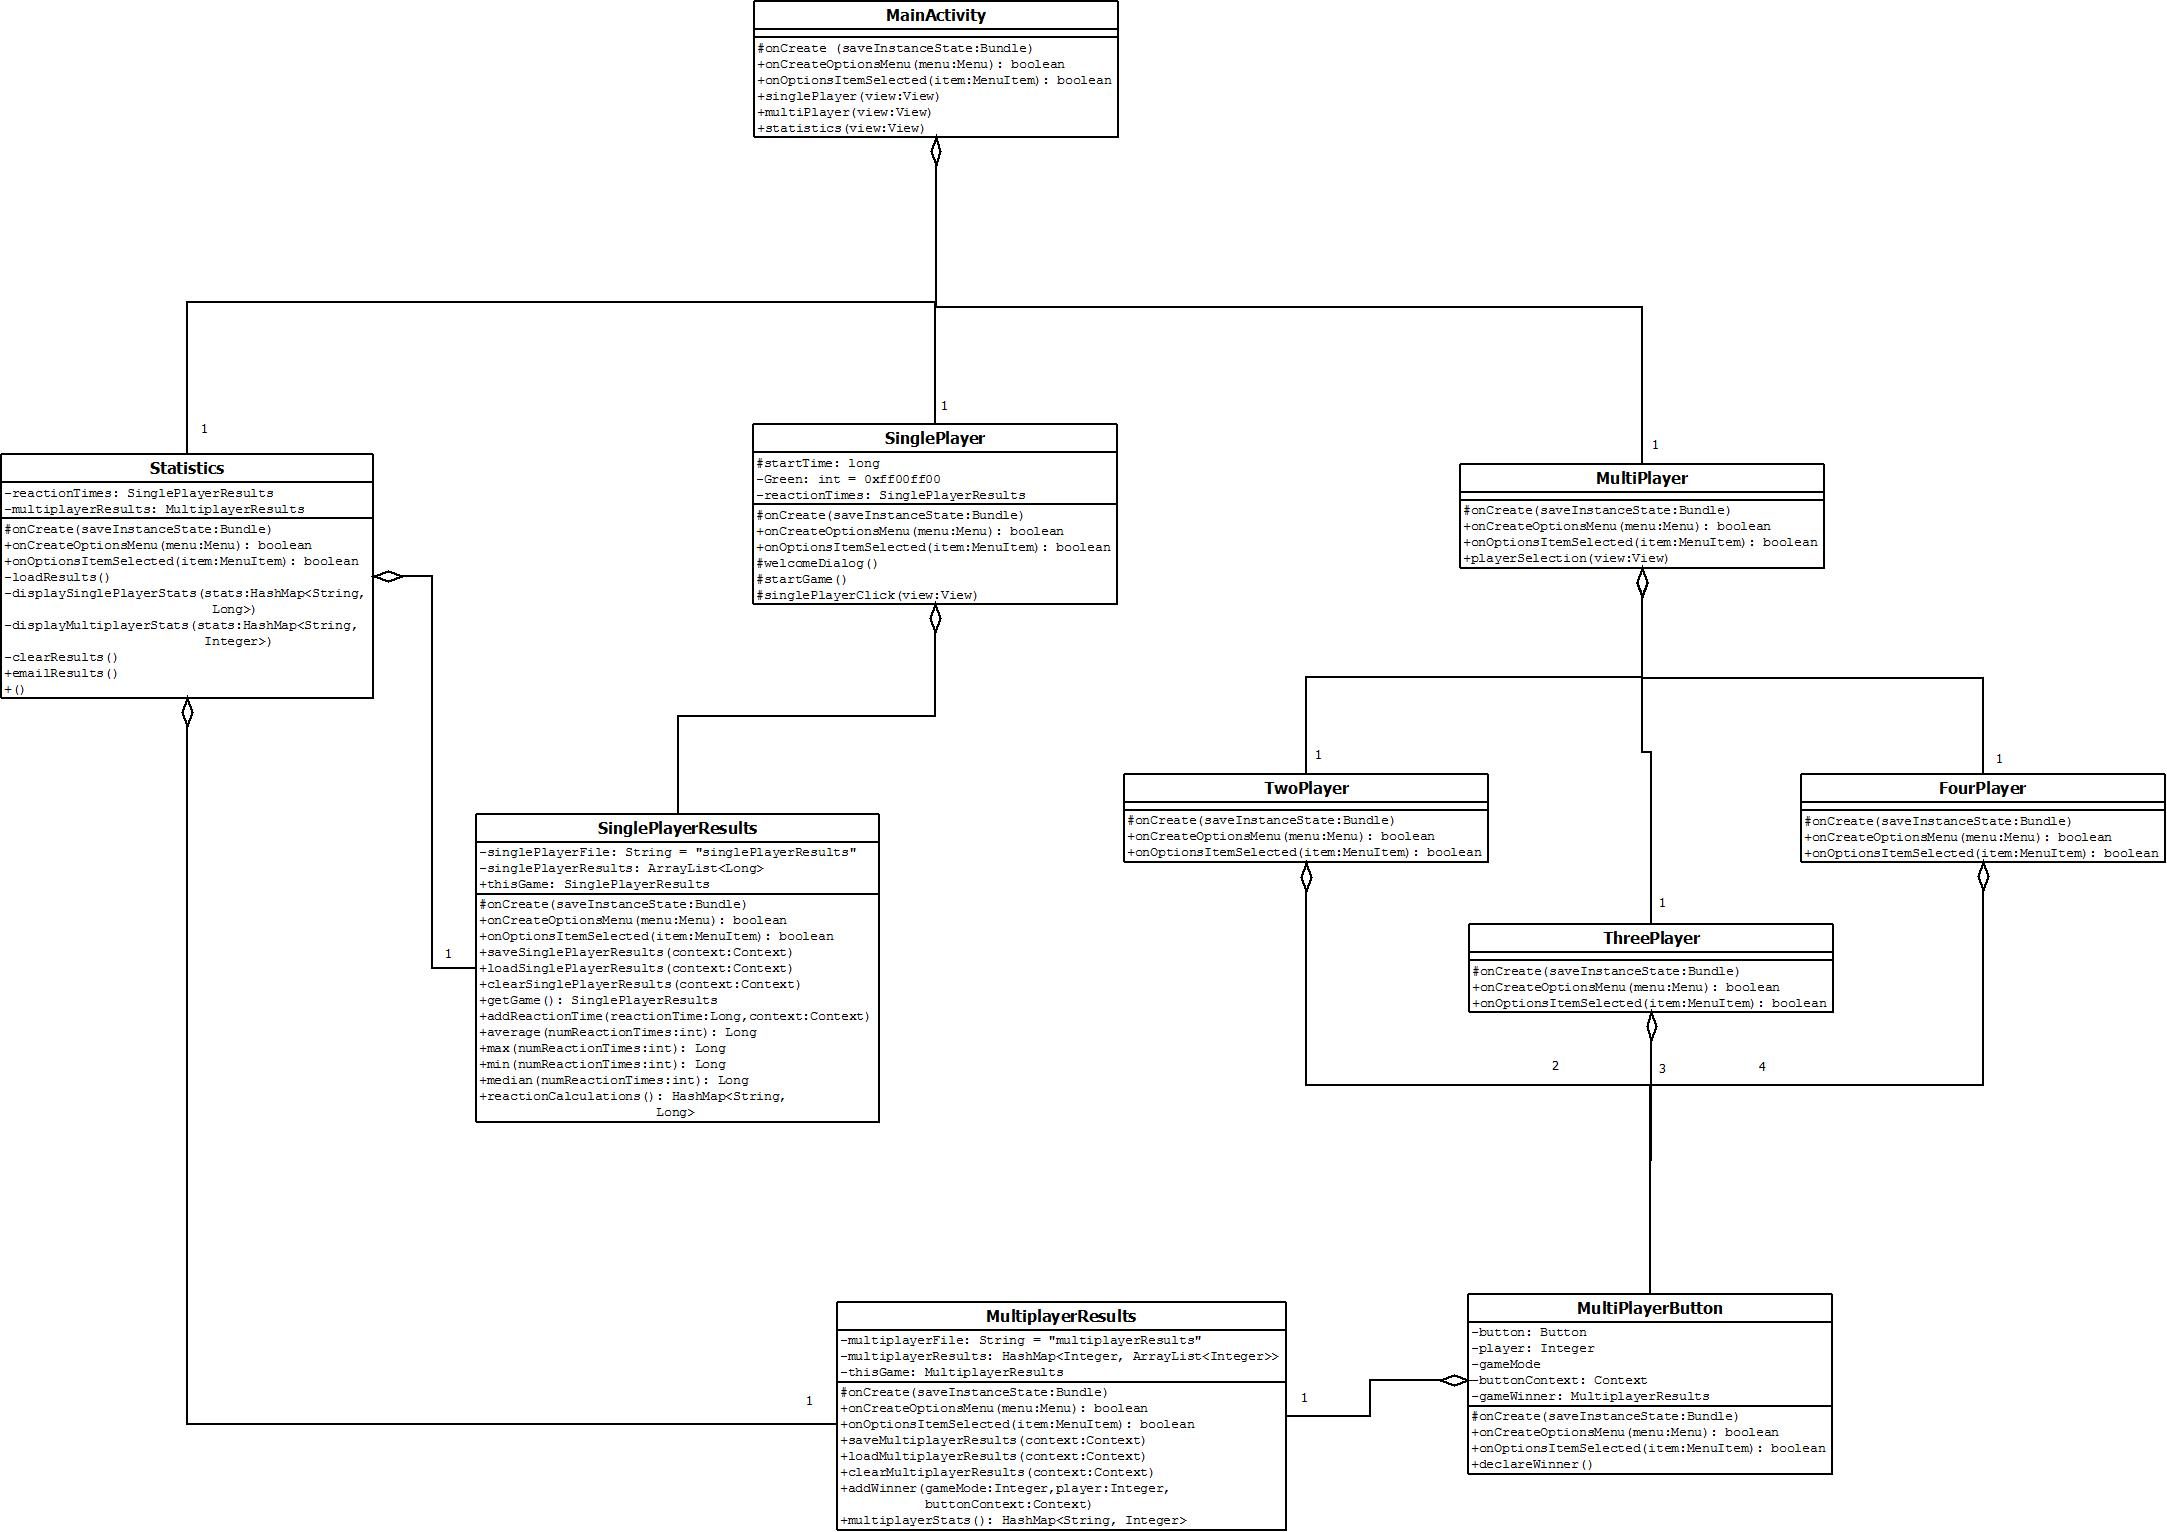
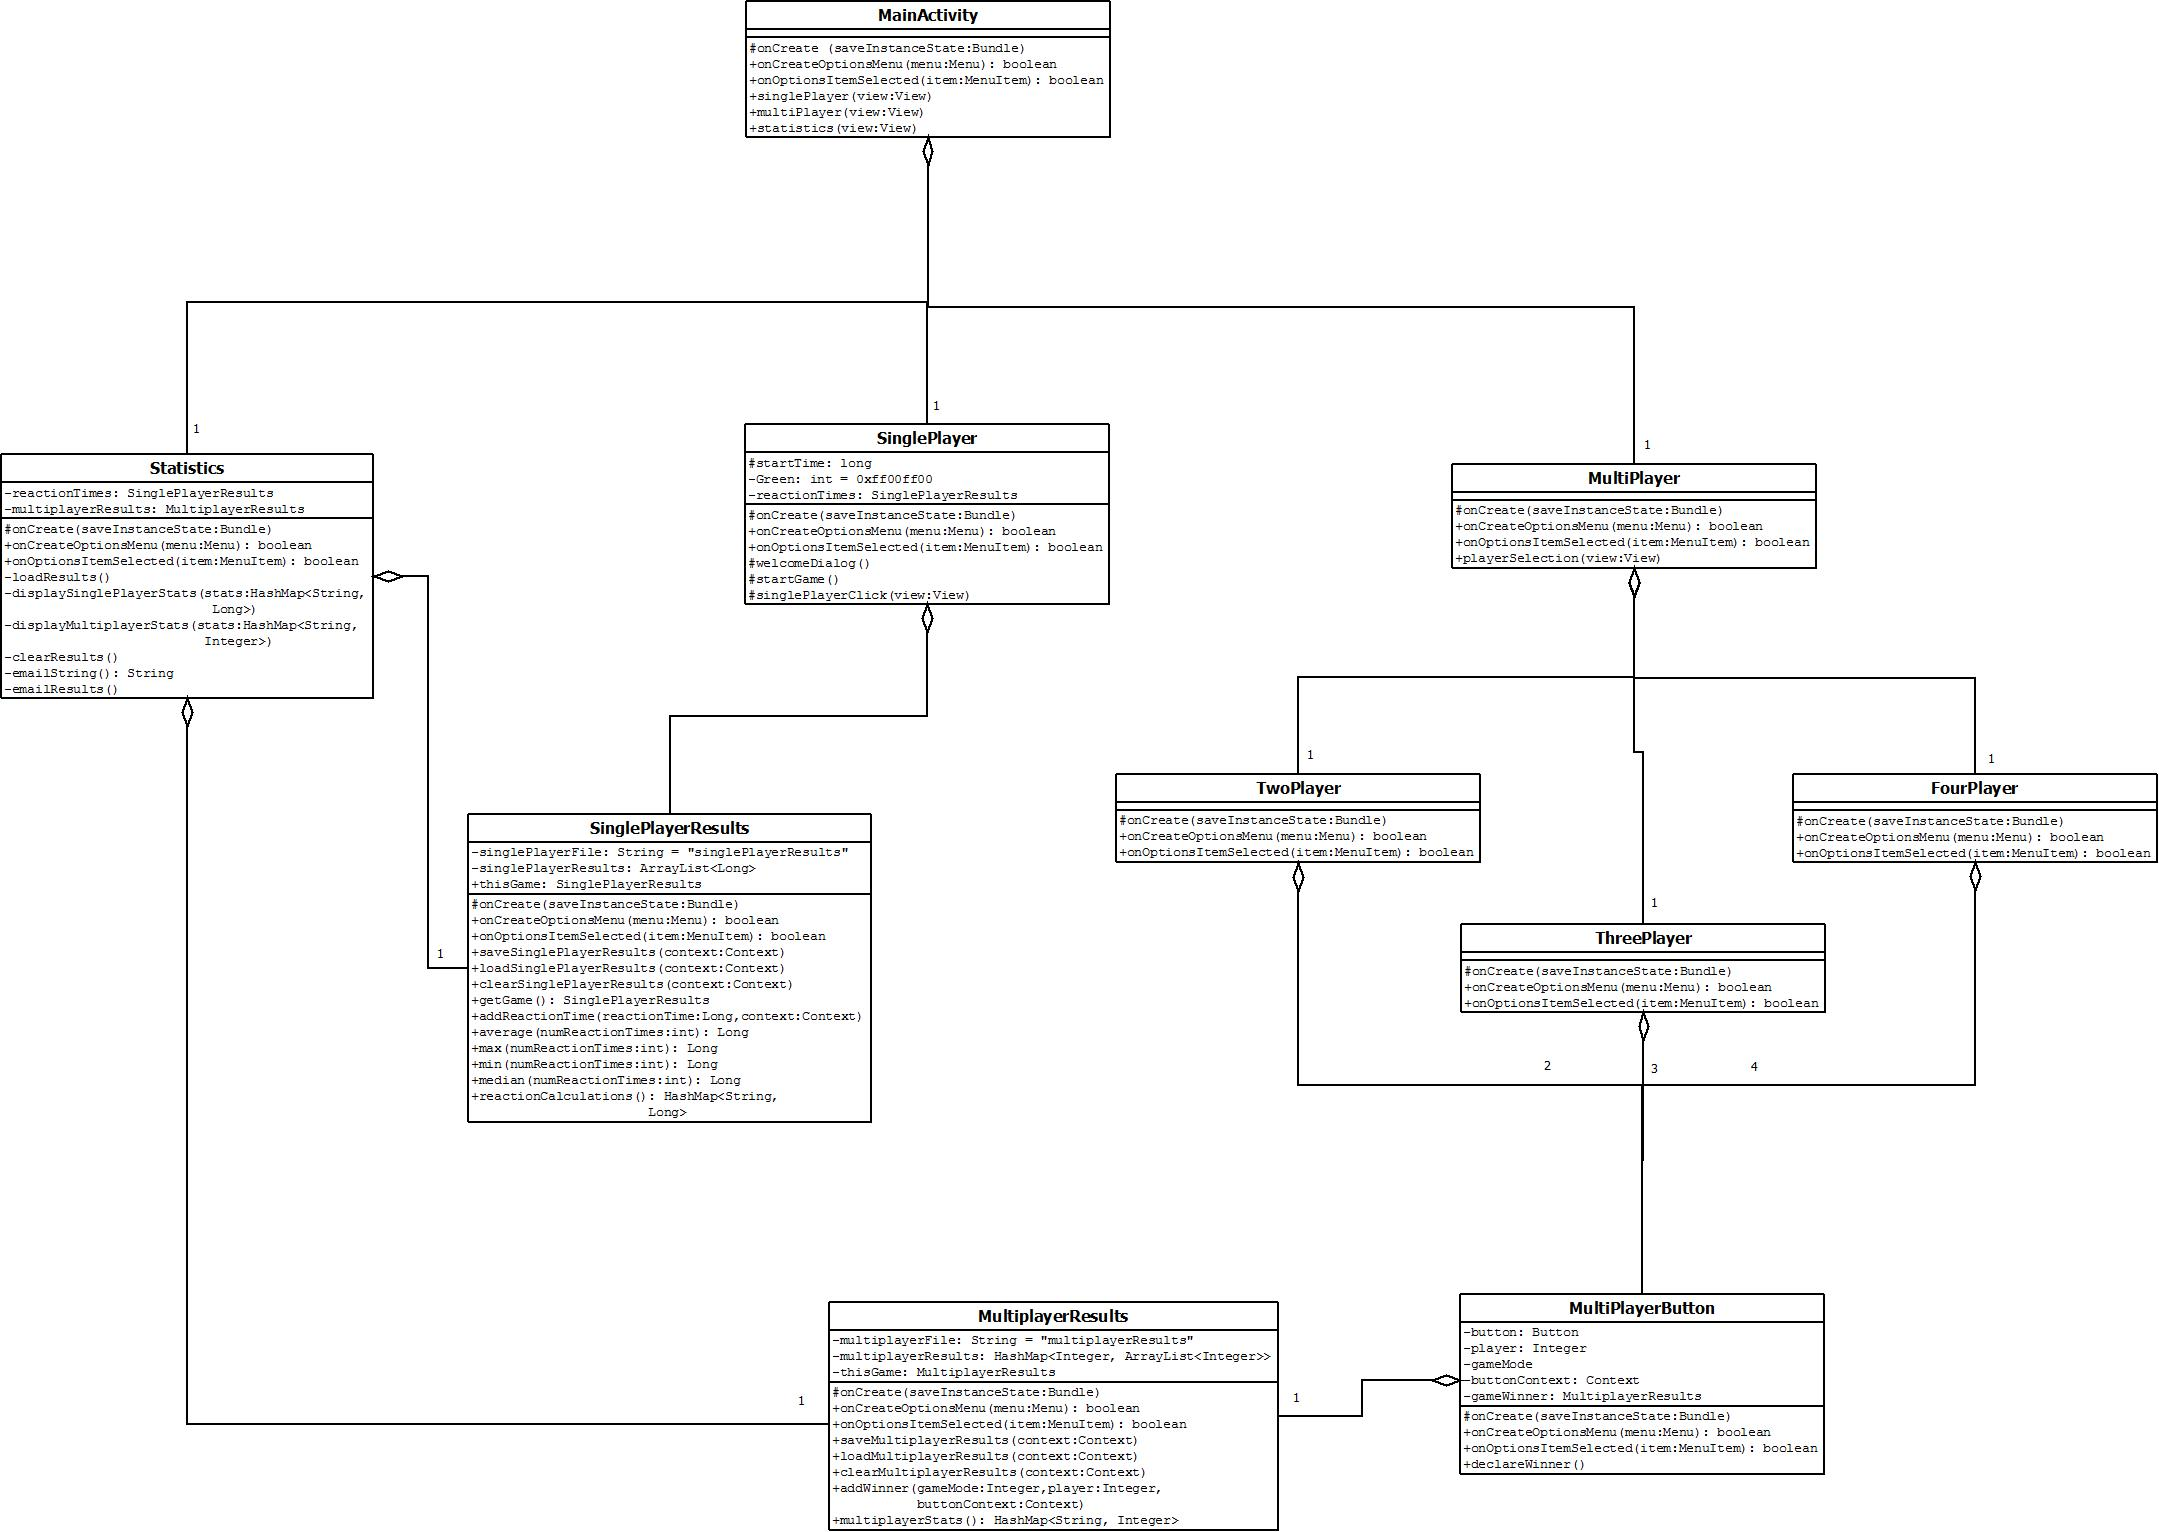
modified UML diagram

diff --git a/app/src/main/java/com/example/jacob/charlebo_reflex/Statistics.java b/app/src/main/java/com/example/jacob/charlebo_reflex/Statistics.java
@@ -26,6 +26,7 @@ import android.view.MenuItem;
 import android.view.View;
 import android.widget.Button;
 import android.widget.TextView;
+import android.widget.Toast;
 
 import java.util.HashMap;
 
@@ -134,7 +135,19 @@ public class Statistics extends AppCompatActivity {
         });
     }
 
-    public void emailResults() {
+    private void emailResults(){
+        //From: http://stackoverflow.com/questions/2197741/how-can-i-send-emails-from-my-android-application, 2015-10-04
+        Intent intent = new Intent(Intent.ACTION_SENDTO);
+        intent.putExtra(Intent.EXTRA_SUBJECT, "charlebo-reflex stats");
+        intent.putExtra(Intent.EXTRA_TEXT, emailString());
+        try {
+            startActivity(Intent.createChooser(intent, "Send mail with:"));
+        } catch (android.content.ActivityNotFoundException e) {
+            Toast.makeText(Statistics.this, "There are no email clients installed", Toast.LENGTH_SHORT).show();
+        }
+    }
+
+    private String emailString() {
         HashMap<String, Long> singlePlayerResults = this.reactionTimes.reactionCalculations();
         HashMap<String, Integer> multiplayerStats = this.multiplayerResults.multiplayerStats();
 
@@ -160,15 +173,7 @@ public class Statistics extends AppCompatActivity {
                 " Player 2 wins: " + multiplayerStats.get("p2m4").toString() + "\n" +
                 " Player 3 Wins:" + multiplayerStats.get("p3m4").toString() + "\n" +
                 " Player 4 wins:" + multiplayerStats.get("p4m4").toString() + "\n";
-
-        //From: http://stackoverflow.com/questions/2197741/how-can-i-send-emails-from-my-android-application, 2015-10-04
-        Intent intent = new Intent(Intent.ACTION_SENDTO);
-        intent.setData(Uri.parse("mailto:"));
-        intent.putExtra(Intent.EXTRA_SUBJECT, "charlebo-reflex stats");
-        intent.putExtra(Intent.EXTRA_TEXT, email);
-        if (intent.resolveActivity(getPackageManager()) != null) {
-            startActivity(intent);
-        }
+        return email;
     }
 
     @Override
